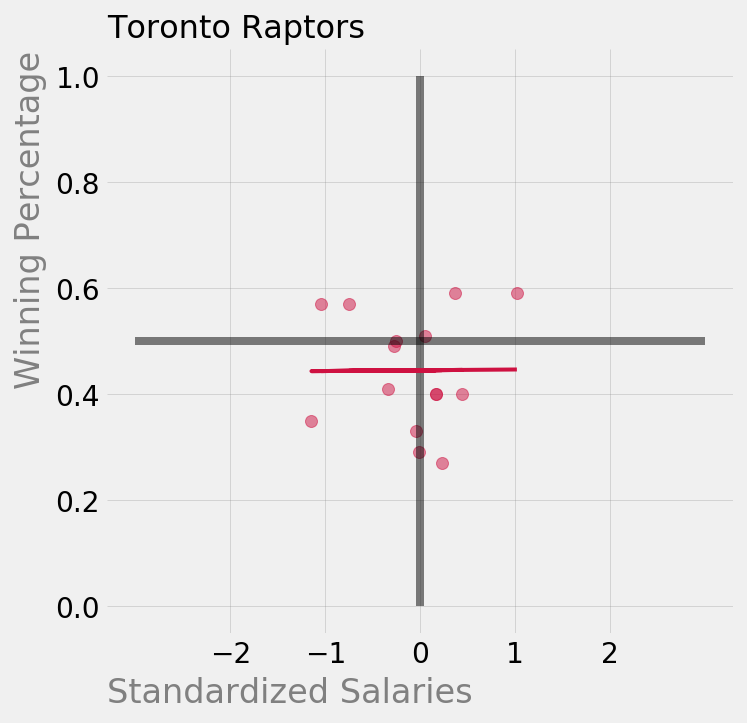
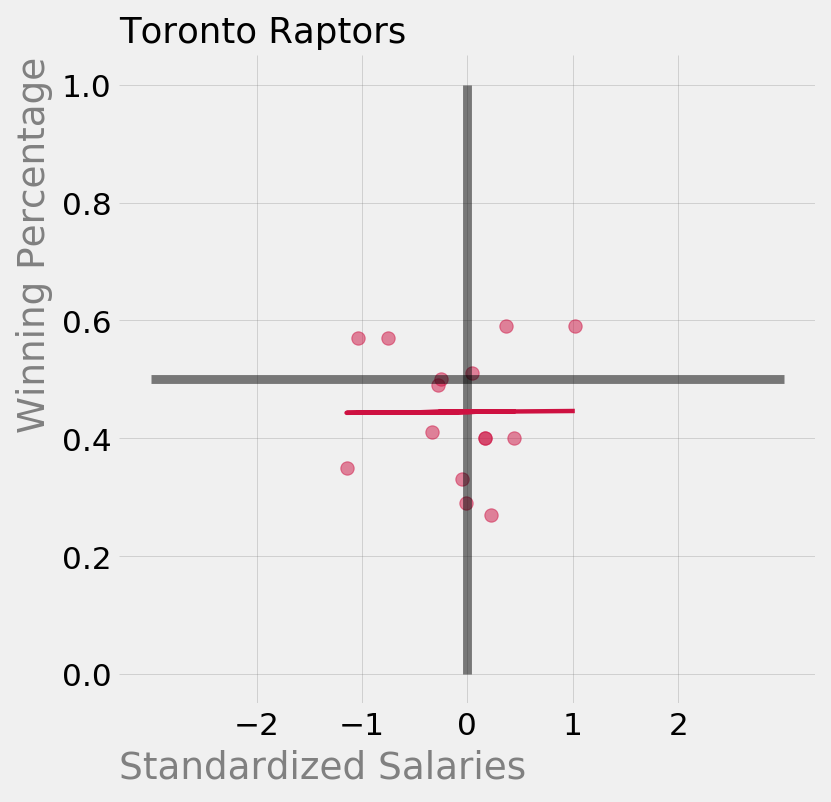
Generate Pelican site

diff --git a/nba_team_salary.html b/nba_team_salary.html
@@ -47,7 +47,8 @@ https://hoopshype.com/salaries/</p>
 <span class="kn">from</span> <span class="nn">sklearn</span> <span class="kn">import</span> <span class="n">linear_model</span>
 <span class="kn">from</span> <span class="nn">sklearn.linear_model</span> <span class="kn">import</span> <span class="n">LinearRegression</span>
 
-<span class="o">%</span><span class="n">config</span> <span class="n">InlineBackend</span><span class="o">.</span><span class="n">figure_format</span> <span class="o">=</span> <span class="s1">&#39;retina&#39;</span>
+<span class="n">plt</span><span class="o">.</span><span class="n">rcParams</span><span class="p">[</span><span class="s1">&#39;figure.dpi&#39;</span><span class="p">]</span> <span class="o">=</span> <span class="mi">80</span>
+<span class="c1"># %config InlineBackend.figure_format = &#39;retina&#39;</span>
 </pre></div>
 
 
